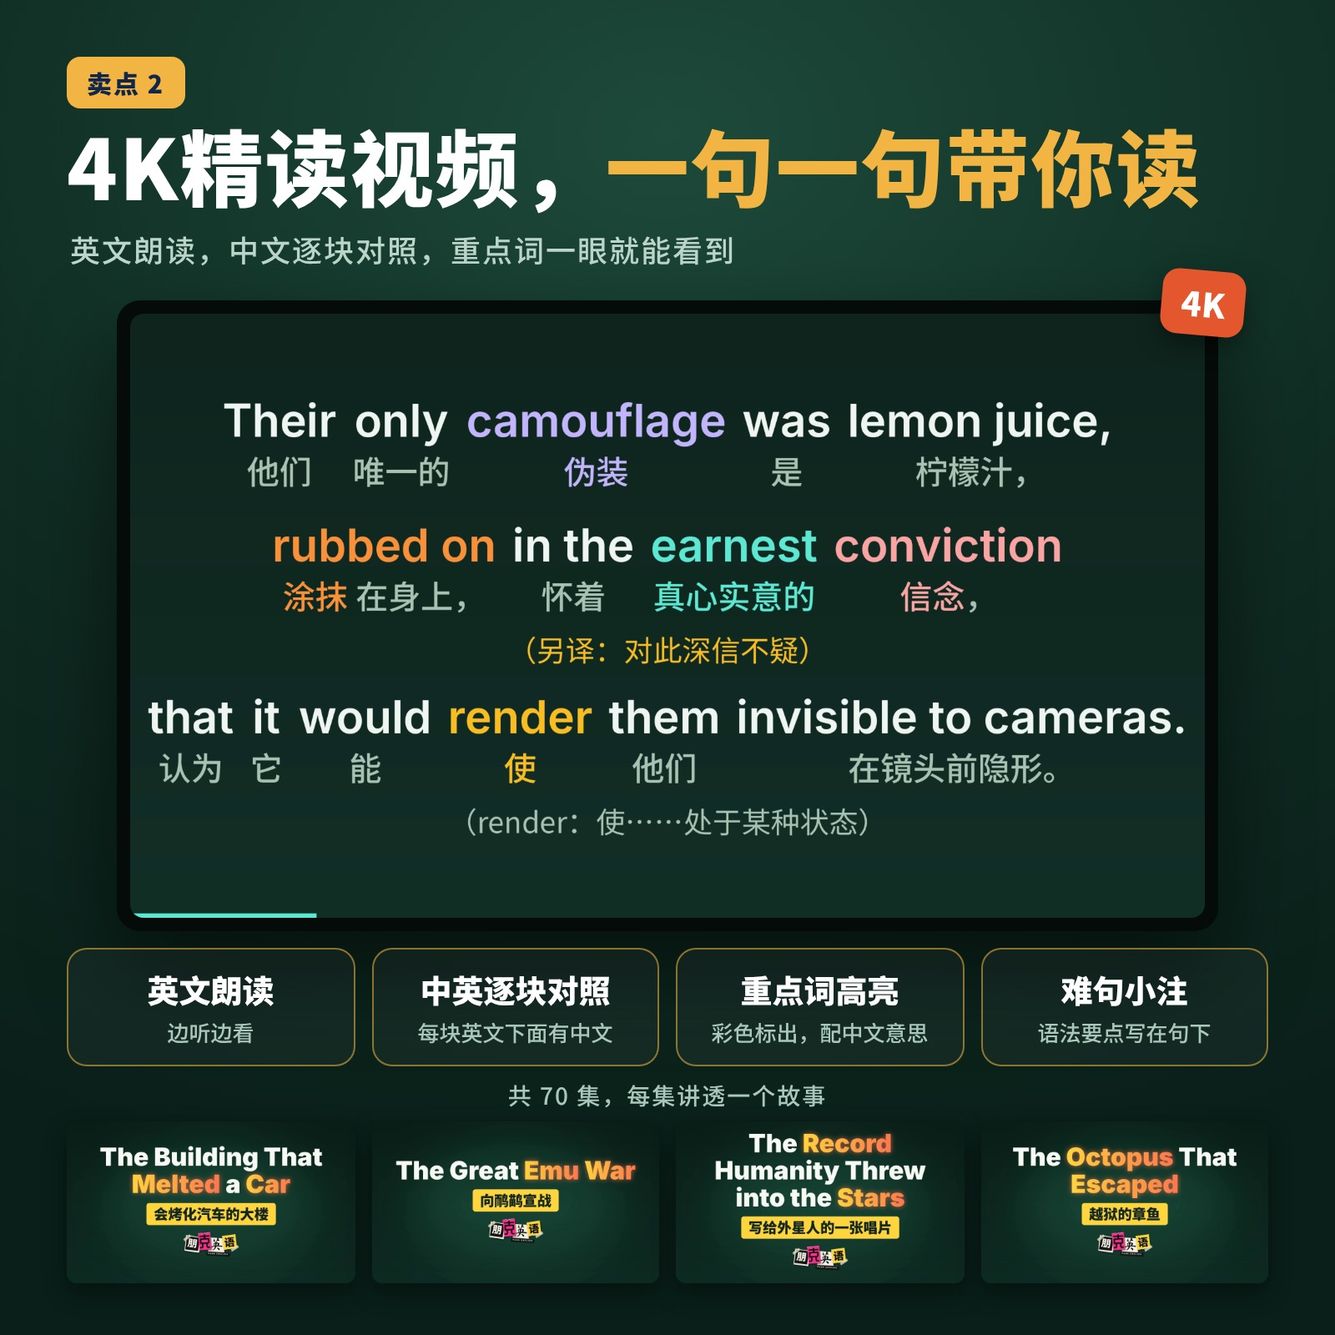
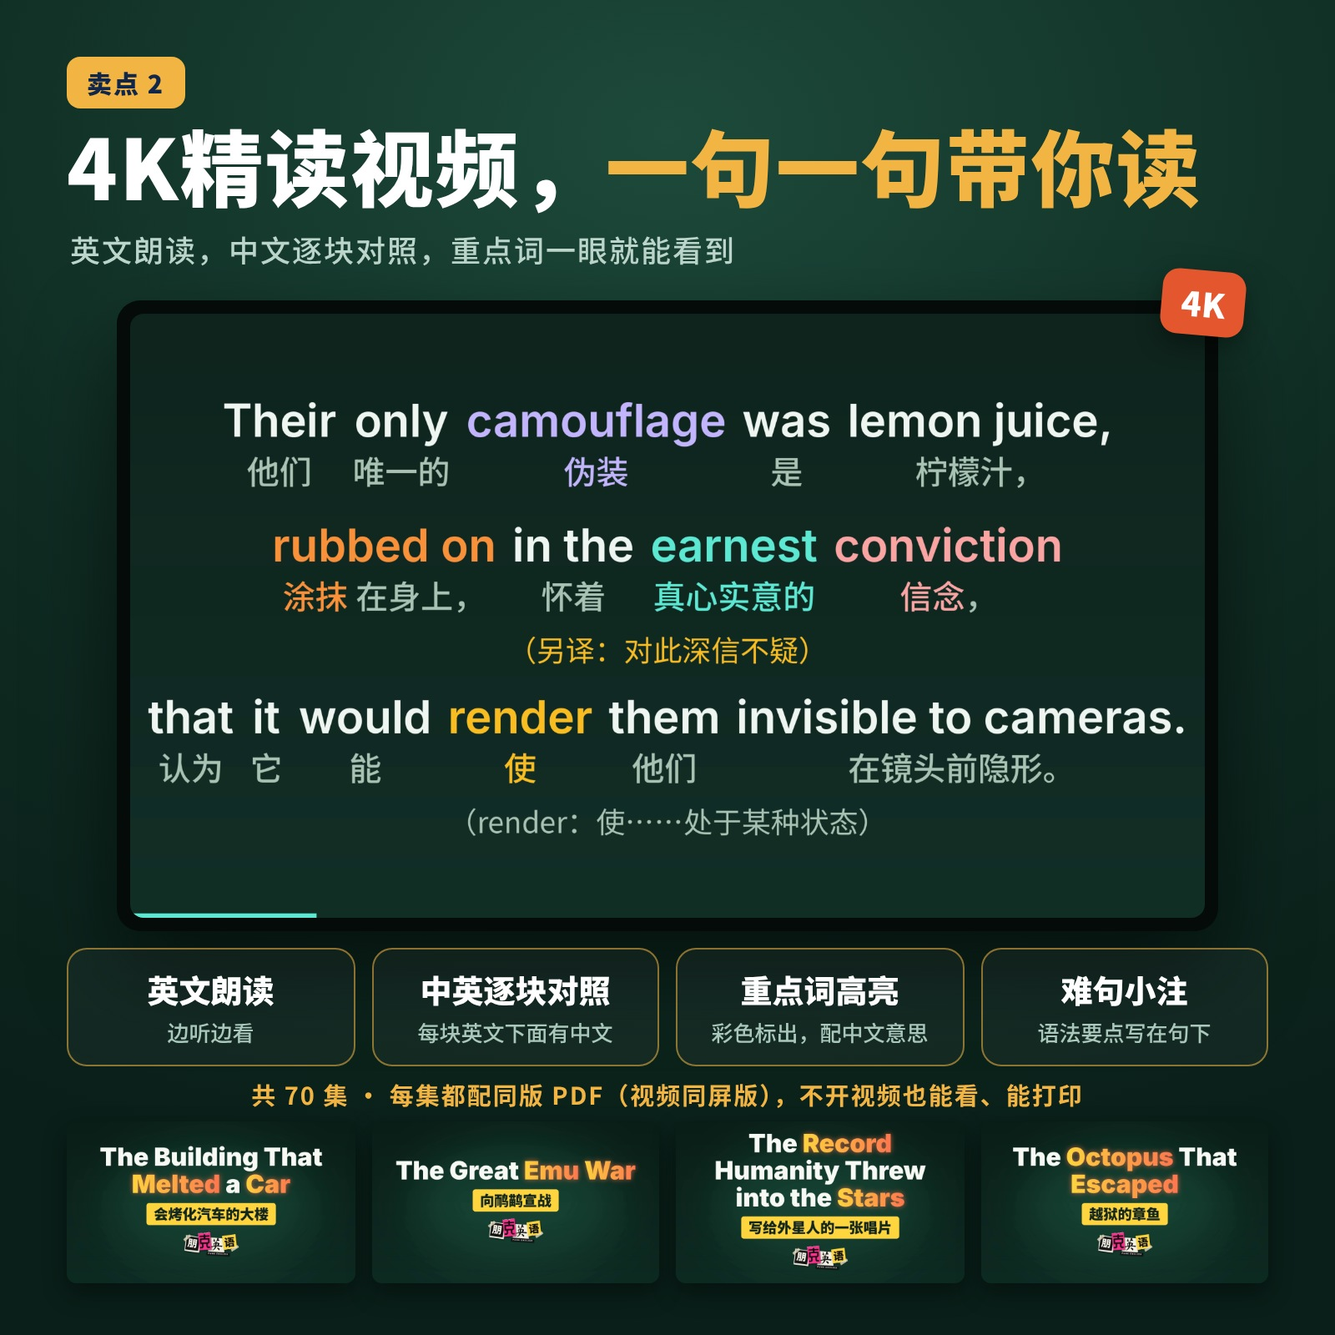
商品图：主图逐样标明 PDF 教材、4K 视频与同版 PDF；追故事图加 PDF 教材横幅；视频图写明每集配同版 PDF
Claude-Session: https://claude.ai/code/session_018Kg61y5YeZxoNzSXSuyt8u

Changed region(s): [[0.1875, 0.8125, 0.8125, 0.8438]]

diff --git a/推广文案/商品图-2026-11-17/制作源文件/1.html b/推广文案/商品图-2026-11-17/制作源文件/1.html
@@ -1,74 +1,102 @@
 <!doctype html>
 <html lang="zh-CN"><head><meta charset="utf-8"><link rel="stylesheet" href="style.css">
 <style>
-.top { position: absolute; left: 0; top: 0; width: 800px; height: 500px;
+.top { position: absolute; left: 0; top: 0; width: 800px; height: 506px;
   background: radial-gradient(120% 90% at 50% 0%, #2a5cb8 0%, #163a78 45%, #0d2247 100%); }
 .top::after { content: ''; position: absolute; inset: 0;
-  background: radial-gradient(60% 40% at 50% 62%, rgba(255,214,120,.22), rgba(255,214,120,0) 70%); }
-.tag { position: absolute; left: 50%; top: 26px; transform: translateX(-50%); background: var(--gold); color: var(--navy); white-space: nowrap; z-index: 3; }
-.h1 { position: absolute; left: 0; right: 0; top: 66px; text-align: center; color: #fff; font-weight: 900; z-index: 3; line-height: 1.12; letter-spacing: 1px; }
-.h1 .l1 { font-size: 60px; }
-.h1 .l2 { font-size: 60px; }
-.h1 .num { font-size: 74px; color: var(--gold); font-family: 'SC'; letter-spacing: 0; text-shadow: 0 4px 18px rgba(242,181,68,.35); }
-.sub { position: absolute; left: 0; right: 0; top: 222px; text-align: center; color: #d6e3fb; font-size: 17px; font-weight: 500; letter-spacing: 2px; z-index: 3; }
+  background: radial-gradient(60% 35% at 50% 70%, rgba(255,214,120,.20), rgba(255,214,120,0) 70%); }
+.tag { position: absolute; left: 50%; top: 22px; transform: translateX(-50%); background: var(--gold); color: var(--navy); white-space: nowrap; z-index: 3; font-size: 16px; }
+.h1 { position: absolute; left: 0; right: 0; top: 58px; text-align: center; color: #fff; font-weight: 900; z-index: 3; line-height: 1.1; letter-spacing: 1px; }
+.h1 .l1, .h1 .l2 { font-size: 54px; }
+.h1 .num { font-size: 66px; color: var(--gold); letter-spacing: 0; text-shadow: 0 4px 18px rgba(242,181,68,.35); }
+.sub { position: absolute; left: 0; right: 0; top: 190px; text-align: center; color: #d6e3fb; font-size: 16px; letter-spacing: 2px; z-index: 3; }
 .sub b { color: #fff; font-weight: 700; }
 
-/* hero */
-.laptop { position: absolute; left: 186px; top: 262px; width: 408px; z-index: 2; }
-.screen { background: #0b0f17; border-radius: 12px 12px 4px 4px; padding: 9px 9px 9px; }
-.screen img { display: block; width: 100%; border-radius: 3px; }
-.base { height: 13px; margin: 0 -26px; background: linear-gradient(#e9edf3, #b9c1cc); border-radius: 0 0 14px 14px; position: relative; }
-.base::before { content: ''; position: absolute; left: 50%; top: 0; width: 70px; height: 5px; transform: translateX(-50%); background: #a3acb8; border-radius: 0 0 6px 6px; }
-.badge4k { position: absolute; right: -14px; top: -14px; background: var(--red); color: #fff; font-weight: 900; font-size: 18px; padding: 5px 11px; border-radius: 10px; transform: rotate(6deg); box-shadow: 0 6px 14px rgba(0,0,0,.3); z-index: 4; }
-.book { position: absolute; left: 44px; top: 268px; width: 158px; height: 225px; z-index: 3; transform: perspective(900px) rotateY(16deg) rotateZ(-3deg); }
-.book img { width: 100%; height: 100%; object-fit: cover; border-radius: 2px 6px 6px 2px; display: block; }
-.book::before { content: ''; position: absolute; left: 0; top: 0; bottom: 0; width: 10px; background: linear-gradient(90deg, rgba(0,0,0,.35), rgba(255,255,255,.15) 60%, rgba(0,0,0,0)); z-index: 2; border-radius: 2px 0 0 2px; }
-.book .shadow-el { position: absolute; inset: 0; box-shadow: 14px 22px 34px rgba(0,0,0,.45); border-radius: 2px 6px 6px 2px; z-index: -1; }
-.page { position: absolute; width: 118px; height: 167px; background: #fff; border-radius: 3px; overflow: hidden; box-shadow: 0 14px 28px rgba(0,0,0,.35); }
-.page img { width: 100%; height: 100%; object-fit: cover; object-position: top; display: block; }
-.p1 { left: 600px; top: 312px; transform: rotate(-9deg); z-index: 3; }
-.p2 { left: 636px; top: 298px; transform: rotate(1deg); z-index: 4; }
-.p3 { left: 664px; top: 314px; transform: rotate(10deg); z-index: 5; }
+/* hero lineup */
+.obj { position: absolute; z-index: 3; }
+.lab { position: absolute; z-index: 4; text-align: center; color: #fff; font-weight: 900; font-size: 15px; line-height: 1.25; white-space: nowrap; transform: translateX(-50%); }
+.lab i { display: block; font-style: normal; font-weight: 500; font-size: 12px; color: #c9d8f3; }
+.fmt { display: inline-block; font-family: 'SC'; font-weight: 900; font-size: 11px; color: #fff; background: var(--red); border-radius: 4px; padding: 1px 5px; margin-left: 5px; vertical-align: 2px; letter-spacing: .5px; }
+.fmt.mp4 { background: #2f9e6d; }
+.badge { position: absolute; z-index: 5; font-weight: 900; font-size: 13px; color: #fff; background: var(--red); border-radius: 6px; padding: 2px 7px; box-shadow: 0 4px 10px rgba(0,0,0,.3); }
+.badge.mp4 { background: #2f9e6d; }
+
+.book { left: 26px; top: 252px; width: 132px; height: 188px; transform: perspective(800px) rotateY(14deg) rotateZ(-2deg); }
+.book img { width: 100%; height: 100%; object-fit: cover; display: block; border-radius: 2px 5px 5px 2px; box-shadow: 12px 18px 28px rgba(0,0,0,.45); }
+.book::before { content: ''; position: absolute; left: 0; top: 0; bottom: 0; width: 8px; background: linear-gradient(90deg, rgba(0,0,0,.35), rgba(255,255,255,.15) 60%, rgba(0,0,0,0)); z-index: 2; }
+
+.laptop { left: 172px; top: 270px; width: 262px; }
+.screen { background: #0b0f17; border-radius: 9px 9px 3px 3px; padding: 6px; }
+.screen img { display: block; width: 100%; border-radius: 2px; }
+.base { height: 9px; margin: 0 -18px; background: linear-gradient(#e9edf3, #b9c1cc); border-radius: 0 0 10px 10px; }
+
+.eq { position: absolute; left: 440px; top: 316px; z-index: 4; color: var(--gold); font-weight: 900; font-size: 40px; line-height: 1; }
+.eq i { display: block; font-style: normal; font-size: 12px; color: var(--gold); text-align: center; margin-top: 2px; letter-spacing: 1px; }
+
+.pdfv { left: 484px; top: 276px; width: 176px; background: #fff; border-radius: 6px; padding: 5px; box-shadow: 0 14px 28px rgba(0,0,0,.4); transform: rotate(2deg); }
+.pdfv img { display: block; width: 100%; border-radius: 2px; }
+.pdfv .stack { position: absolute; inset: 0; background: #fff; border-radius: 6px; transform: translate(7px, 7px); z-index: -1; box-shadow: 0 8px 16px rgba(0,0,0,.3); }
+
+.pg { position: absolute; width: 88px; height: 125px; background: #fff; border-radius: 3px; overflow: hidden; box-shadow: 0 10px 22px rgba(0,0,0,.4); z-index: 3; }
+.pg img { width: 100%; height: 100%; object-fit: cover; object-position: top; display: block; }
+.q1 { left: 670px; top: 268px; transform: rotate(-7deg); }
+.q2 { left: 690px; top: 284px; transform: rotate(3deg); z-index: 4; }
+.q3 { left: 702px; top: 304px; transform: rotate(11deg); z-index: 5; }
 
 /* contents */
-.panel { position: absolute; left: 0; top: 500px; width: 800px; height: 300px; background: var(--cream); }
-.ptitle { position: absolute; left: 0; right: 0; top: 512px; text-align: center; font-weight: 900; font-size: 24px; color: var(--navy); letter-spacing: 1px; z-index: 3; }
+.panel { position: absolute; left: 0; top: 506px; width: 800px; height: 294px; background: var(--cream); }
+.ptitle { position: absolute; left: 0; right: 0; top: 516px; text-align: center; font-weight: 900; font-size: 23px; color: var(--navy); letter-spacing: 1px; z-index: 3; }
 .ptitle span { color: var(--red); }
-.grid { position: absolute; left: 22px; right: 22px; top: 556px; display: grid; grid-template-columns: repeat(4, 1fr); gap: 10px; z-index: 3; }
-.chip { background: #fff; border-radius: 14px; height: 88px; display: flex; align-items: center; gap: 10px; padding: 0 10px; box-shadow: 0 4px 12px rgba(16,38,74,.10); border: 1px solid #efe5d2; }
-.thumb { width: 50px; height: 70px; flex: none; border-radius: 3px; overflow: hidden; box-shadow: 0 2px 6px rgba(0,0,0,.18); background: #fff; }
+.grid { position: absolute; left: 20px; right: 20px; top: 556px; display: grid; grid-template-columns: repeat(4, 1fr); gap: 9px; z-index: 3; }
+.chip { background: #fff; border-radius: 13px; height: 88px; display: flex; align-items: center; gap: 9px; padding: 0 9px; box-shadow: 0 4px 12px rgba(16,38,74,.10); border: 1px solid #efe5d2; position: relative; }
+.thumb { width: 48px; height: 68px; flex: none; border-radius: 3px; overflow: hidden; box-shadow: 0 2px 6px rgba(0,0,0,.18); background: #fff; position: relative; }
 .thumb img { width: 100%; height: 100%; object-fit: cover; object-position: top; display: block; }
-.thumb.wide { width: 54px; height: 31px; }
-.n { font-weight: 900; font-size: 25px; color: var(--navy); line-height: 1; }
-.n small { font-size: 15px; margin-left: 2px; }
-.lab { font-weight: 700; font-size: 15px; color: var(--ink); margin-top: 6px; line-height: 1.15; }
-.lab i { font-style: normal; font-weight: 500; font-size: 12px; color: var(--muted); display: block; margin-top: 2px; }
-.foot { position: absolute; left: 0; right: 0; bottom: 16px; text-align: center; font-size: 14px; color: var(--muted); letter-spacing: 1px; z-index: 3; }
+.thumb.wide { width: 56px; height: 32px; }
+.n { font-weight: 900; font-size: 24px; color: var(--navy); line-height: 1; white-space: nowrap; }
+.n small { font-size: 14px; margin-left: 2px; }
+.n .fmt { font-size: 10px; vertical-align: 5px; }
+.ll { font-weight: 700; font-size: 14.5px; color: var(--ink); margin-top: 5px; line-height: 1.15; white-space: nowrap; }
+.ll i { font-style: normal; font-weight: 500; font-size: 11.5px; color: var(--muted); display: block; margin-top: 2px; }
+.foot { position: absolute; left: 0; right: 0; bottom: 14px; text-align: center; font-size: 14px; color: var(--muted); letter-spacing: 1px; z-index: 3; }
 .foot b { color: var(--navy); font-weight: 700; }
 </style></head>
 <body><div class="canvas">
   <div class="top"></div>
   <div class="pill tag">考研英语一 · 英语二 · 四级 · 六级 都能用</div>
   <div class="h1"><div class="l1">70个好故事</div><div class="l2">记住约<span class="num">4300</span>个考研词</div></div>
-  <div class="sub"><b>英文朗读</b> · 中英对照 · <b>逐句精讲</b> · 单词精解 · <b>听写自测</b></div>
+  <div class="sub"><b>4K视频</b> ＋ <b>同版PDF</b> ＋ <b>PDF教材</b> ＋ 逐句精讲 ＋ 单词精解 ＋ 听写卡</div>
 
-  <div class="book"><div class="shadow-el"></div><img src="../assets/cover.jpg"></div>
-  <div class="laptop"><div class="badge4k">4K</div><div class="screen"><img src="../assets/scr01_1.png"></div><div class="base"></div></div>
-  <div class="page p1"><img src="../assets/jj01_p2.png"></div>
-  <div class="page p2"><img src="../assets/cd01_p2.png"></div>
-  <div class="page p3"><img src="../assets/card_zh2en.png"></div>
+  <div class="obj book"><img src="../assets/cover.jpg"></div>
+  <span class="badge" style="left:120px; top:240px;">PDF</span>
+  <div class="lab" style="left:94px; top:452px;">《考研学人》教材<span class="fmt">PDF</span><i>356页 · 普通版＋羊皮纸版</i></div>
+
+  <div class="obj laptop"><div class="screen"><img src="../assets/scr01_1.png"></div><div class="base"></div></div>
+  <span class="badge mp4" style="left:392px; top:260px;">4K</span>
+  <div class="lab" style="left:303px; top:452px;">精读视频<span class="fmt mp4">MP4</span><i>70集 · 4K高清</i></div>
+
+  <div class="eq">＝<i>同版</i></div>
+
+  <div class="obj pdfv"><div class="stack"></div><img src="../assets/scr01_1.png"></div>
+  <span class="badge" style="left:628px; top:266px;">PDF</span>
+  <div class="lab" style="left:574px; top:452px;">视频同屏版<span class="fmt">PDF</span><i>和视频画面一模一样</i></div>
+
+  <div class="pg q1"><img src="../assets/jj01_p2.png"></div>
+  <div class="pg q2"><img src="../assets/cd01_p2.png"></div>
+  <div class="pg q3"><img src="../assets/card_zh2en.png"></div>
+  <span class="badge" style="left:752px; top:262px; z-index:6;">PDF</span>
+  <div class="lab" style="left:732px; top:452px;">学习讲义<span class="fmt">PDF</span><i>精讲 · 单词 · 听写卡</i></div>
 
   <div class="panel"></div>
   <div class="ptitle">全套 <span>8 样</span>学习资料，一次配齐</div>
   <div class="grid">
-    <div class="chip"><div class="thumb wide"><img src="../assets/scr01_0.png"></div><div><div class="n">70<small>集</small></div><div class="lab">精读视频<i>4K 高清</i></div></div></div>
-    <div class="chip"><div class="thumb"><img src="../assets/cover.jpg"></div><div><div class="n">356<small>页</small></div><div class="lab">电子书<i>普通版＋羊皮纸版</i></div></div></div>
-    <div class="chip"><div class="thumb"><img src="../assets/jj01_p2.png"></div><div><div class="n">70<small>份</small></div><div class="lab">逐句精讲</div></div></div>
-    <div class="chip"><div class="thumb"><img src="../assets/cd01_p2.png"></div><div><div class="n">70<small>本</small></div><div class="lab">单词精解册</div></div></div>
-    <div class="chip"><div class="thumb"><img src="../assets/card_zh2en.png"></div><div><div class="n">70<small>份</small></div><div class="lab">汉译英听写卡<i>附答案</i></div></div></div>
-    <div class="chip"><div class="thumb"><img src="../assets/card_en2zh.png"></div><div><div class="n">70<small>份</small></div><div class="lab">英译汉听写卡<i>附答案</i></div></div></div>
-    <div class="chip"><div class="thumb wide"><img src="../assets/scr01_2.png"></div><div><div class="n">70<small>份</small></div><div class="lab">视频同屏版<i>画面整理成PDF</i></div></div></div>
-    <div class="chip"><div class="thumb"><img src="../assets/read01_p1.png"></div><div><div class="n">70<small>份</small></div><div class="lab">阅读版</div></div></div>
+    <div class="chip"><div class="thumb wide"><img src="../assets/scr01_0.png"></div><div><div class="n">70<small>集</small><span class="fmt mp4">MP4</span></div><div class="ll">4K精读视频<i>英文朗读 · 中英对照</i></div></div></div>
+    <div class="chip"><div class="thumb wide"><img src="../assets/scr01_2.png"></div><div><div class="n">70<small>份</small><span class="fmt">PDF</span></div><div class="ll">视频同屏版<i>与视频同版</i></div></div></div>
+    <div class="chip"><div class="thumb"><img src="../assets/cover.jpg"></div><div><div class="n">356<small>页</small><span class="fmt">PDF</span></div><div class="ll">《考研学人》教材<i>普通版＋羊皮纸版</i></div></div></div>
+    <div class="chip"><div class="thumb"><img src="../assets/read01_p1.png"></div><div><div class="n">70<small>份</small><span class="fmt">PDF</span></div><div class="ll">阅读版<i>单篇中英对照</i></div></div></div>
+    <div class="chip"><div class="thumb"><img src="../assets/jj01_p2.png"></div><div><div class="n">70<small>份</small><span class="fmt">PDF</span></div><div class="ll">逐句精讲<i>主干 · 语法 · 例句</i></div></div></div>
+    <div class="chip"><div class="thumb"><img src="../assets/cd01_p2.png"></div><div><div class="n">70<small>本</small><span class="fmt">PDF</span></div><div class="ll">单词精解册<i>音标 · 词源 · 搭配</i></div></div></div>
+    <div class="chip"><div class="thumb"><img src="../assets/card_zh2en.png"></div><div><div class="n">70<small>份</small><span class="fmt">PDF</span></div><div class="ll">汉译英听写卡<i>附答案</i></div></div></div>
+    <div class="chip"><div class="thumb"><img src="../assets/card_en2zh.png"></div><div><div class="n">70<small>份</small><span class="fmt">PDF</span></div><div class="ll">英译汉听写卡<i>附答案</i></div></div></div>
   </div>
   <div class="foot">电子版资料 · <b>PDF ＋ MP4</b> · 手机、平板、电脑都能看，PDF 可打印</div>
 </div></body></html>

diff --git a/推广文案/商品图-2026-11-17/制作源文件/2.html b/推广文案/商品图-2026-11-17/制作源文件/2.html
@@ -7,14 +7,21 @@ body { background: linear-gradient(180deg, #fbf5ea 0%, #f6ecd9 100%); }
 .h span { color: var(--red); }
 .s { position: absolute; left: 42px; top: 136px; font-size: 18px; color: var(--muted); letter-spacing: 1px; }
 .s b { color: var(--navy); font-weight: 700; }
-.grid { position: absolute; left: 32px; right: 32px; top: 182px; display: grid; grid-template-columns: repeat(3, 1fr); gap: 14px; }
+.grid { position: absolute; left: 32px; right: 32px; top: 176px; display: grid; grid-template-columns: repeat(3, 1fr); gap: 14px; }
 .card { background: #fff; border-radius: 14px; overflow: hidden; box-shadow: 0 6px 16px rgba(16,38,74,.12); }
-.card img { display: block; width: 100%; height: 120px; object-fit: cover; }
-.cap { height: 40px; display: flex; align-items: center; padding: 0 12px; font-weight: 700; font-size: 15.5px; color: var(--navy); white-space: nowrap; }
+.card img { display: block; width: 100%; height: 108px; object-fit: cover; }
+.cap { height: 38px; display: flex; align-items: center; padding: 0 12px; font-weight: 700; font-size: 15.5px; color: var(--navy); white-space: nowrap; }
 .cap i { font-style: normal; font-family: 'EN'; font-size: 13px; color: var(--gold-deep); margin-right: 8px; }
-.more { position: absolute; left: 0; right: 0; bottom: 34px; text-align: center; }
-.more .pill { background: var(--navy); color: #fff; font-size: 18px; padding: 10px 26px; }
-.more .pill span { color: var(--gold); }
+.bar { position: absolute; left: 32px; right: 32px; top: 648px; height: 128px; background: var(--navy); border-radius: 18px; display: flex; align-items: center; gap: 18px; padding: 0 22px; box-shadow: 0 10px 24px rgba(16,38,74,.25); }
+.bar .bk { flex: none; width: 76px; height: 108px; position: relative; transform: rotate(-4deg); isolation: isolate; }
+.bar .bk img { width: 100%; height: 100%; object-fit: cover; border-radius: 2px 4px 4px 2px; box-shadow: 6px 8px 16px rgba(0,0,0,.4); display: block; }
+.bar .bk2 { position: absolute; left: 30px; top: 6px; width: 76px; height: 108px; transform: rotate(5deg); background: #f3e6c8 url(../assets/parch_5.png) center/cover; border-radius: 2px 4px 4px 2px; box-shadow: 6px 8px 16px rgba(0,0,0,.4); z-index: -1; }
+.bar .tx { color: #fff; margin-left: 26px; }
+.bar .t1 { font-weight: 900; font-size: 23px; letter-spacing: .5px; }
+.bar .t1 span { color: var(--gold); }
+.bar .t2 { font-size: 15px; color: #c9d8f3; margin-top: 6px; letter-spacing: .5px; }
+.bar .t3 { font-size: 14px; color: var(--gold); margin-top: 4px; font-weight: 700; }
+.fmt { display: inline-block; font-weight: 900; font-size: 13px; color: #fff; background: var(--red); border-radius: 5px; padding: 1px 7px; margin-left: 6px; vertical-align: 3px; }
 </style></head>
 <body><div class="canvas">
   <div class="no">卖点 1</div>
@@ -31,5 +38,8 @@ body { background: linear-gradient(180deg, #fbf5ea 0%, #f6ecd9 100%); }
     <div class="card"><img src="../assets/ill52.jpg"><div class="cap"><i>52</i>向鸸鹋宣战</div></div>
     <div class="card"><img src="../assets/ill70.jpg"><div class="cap"><i>70</i>写给外星人的一张唱片</div></div>
   </div>
-  <div class="more"><div class="pill">还有 <span>61</span> 个故事，等你翻开</div></div>
+  <div class="bar"><div class="bk"><div class="bk2"></div><img src="../assets/cover.jpg"></div>
+    <div class="tx"><div class="t1">70个故事全部收进<span>《考研学人》</span>教材<span class="fmt">PDF</span></div>
+    <div class="t2">356页 · 中英对照 · 每篇配插图和文后词表 · 普通版＋羊皮纸版</div>
+    <div class="t3">上面只是 9 篇，还有 61 个故事等你翻开</div></div></div>
 </div></body></html>

diff --git a/推广文案/商品图-2026-11-17/制作源文件/3.html b/推广文案/商品图-2026-11-17/制作源文件/3.html
@@ -15,7 +15,7 @@ body { background: radial-gradient(110% 80% at 50% 10%, #1d4a3b 0%, #0f2b22 55%,
 .tag i { display: block; font-style: normal; font-size: 13px; color: #a9c7bb; margin-top: 3px; }
 .thumbs { position: absolute; left: 40px; right: 40px; top: 672px; display: grid; grid-template-columns: repeat(4, 1fr); gap: 10px; }
 .thumbs img { width: 100%; display: block; border-radius: 6px; box-shadow: 0 6px 14px rgba(0,0,0,.4); }
-.cnt { position: absolute; left: 0; right: 0; text-align: center; top: 646px; font-size: 14px; color: #a9c7bb; letter-spacing: 1px; }
+.cnt { position: absolute; left: 0; right: 0; text-align: center; top: 645px; font-size: 14.5px; color: var(--gold); font-weight: 700; letter-spacing: 1px; }
 </style></head>
 <body><div class="canvas">
   <div class="no">卖点 2</div>
@@ -32,5 +32,5 @@ body { background: radial-gradient(110% 80% at 50% 10%, #1d4a3b 0%, #0f2b22 55%,
   <div class="thumbs">
     <img src="../assets/scr05_0.png"><img src="../assets/scr52_0.png"><img src="../assets/scr70_0.png"><img src="../assets/scr01_0.png">
   </div>
-  <div class="cnt">共 70 集，每集讲透一个故事</div>
+  <div class="cnt">共 70 集 · 每集都配同版 PDF（视频同屏版），不开视频也能看、能打印</div>
 </div></body></html>

diff --git a/推广文案/商品图-2026-11-17/README.md b/推广文案/商品图-2026-11-17/README.md
@@ -2,13 +2,15 @@
 
 用户要求：商品图 5 张以上，只能 1:1；第一张主图展示商品包含什么，要极具吸引力；后面的图展示最有特色的卖点。
 
+按用户 2026-11-17 补充要求（要让买家知道 4K 视频有同版 PDF、要展示教材、追故事图要说明有 PDF 教材）修改了第 1、2、3 张。
+
 每张都有 PNG 和 JPG 两种，1600×1600 像素（1:1）。图里的书页、视频画面、精讲、单词精解、听写卡都是成品的真实截图。
 
 | 序号 | 文件 | 内容 |
 |---|---|---|
-| 1 | 1 主图 全套包含 | 标题“70个好故事 记住约4300个考研词”；书、视频、内页组合；8 格列出全套 8 样资料 |
-| 2 | 2 卖点 追故事 | 9 篇故事插图和题目，“还有 61 个故事” |
-| 3 | 3 卖点 4K精读视频 | 视频真实画面：英文朗读、中英逐块对照、重点词高亮、难句小注 |
+| 1 | 1 主图 全套包含 | 标题“70个好故事 记住约4300个考研词”；一排逐样标明：《考研学人》PDF 教材、4K 视频（MP4）、与视频同版的视频同屏版 PDF、精讲单词听写 PDF；下方 8 格列全套资料，每格标 PDF 或 MP4 |
+| 2 | 2 卖点 追故事 | 9 篇故事插图和题目；底部横幅写明 70 个故事全部收进《考研学人》PDF 教材（356 页，普通版＋羊皮纸版） |
+| 3 | 3 卖点 4K精读视频 | 视频真实画面：英文朗读、中英逐块对照、重点词高亮、难句小注；写明每集都配同版 PDF |
 | 4 | 4 卖点 逐句精讲与单词精解 | 第 1 篇实际内页：主干成分、英美音标、本文语境、词源等 |
 | 5 | 5 卖点 听写卡自测 | 两张听写卡；示例词条与第 1 篇数据逐字一致 |
 | 6 | 6 加送 羊皮纸古书版 | 羊皮纸版和普通版内页 |
